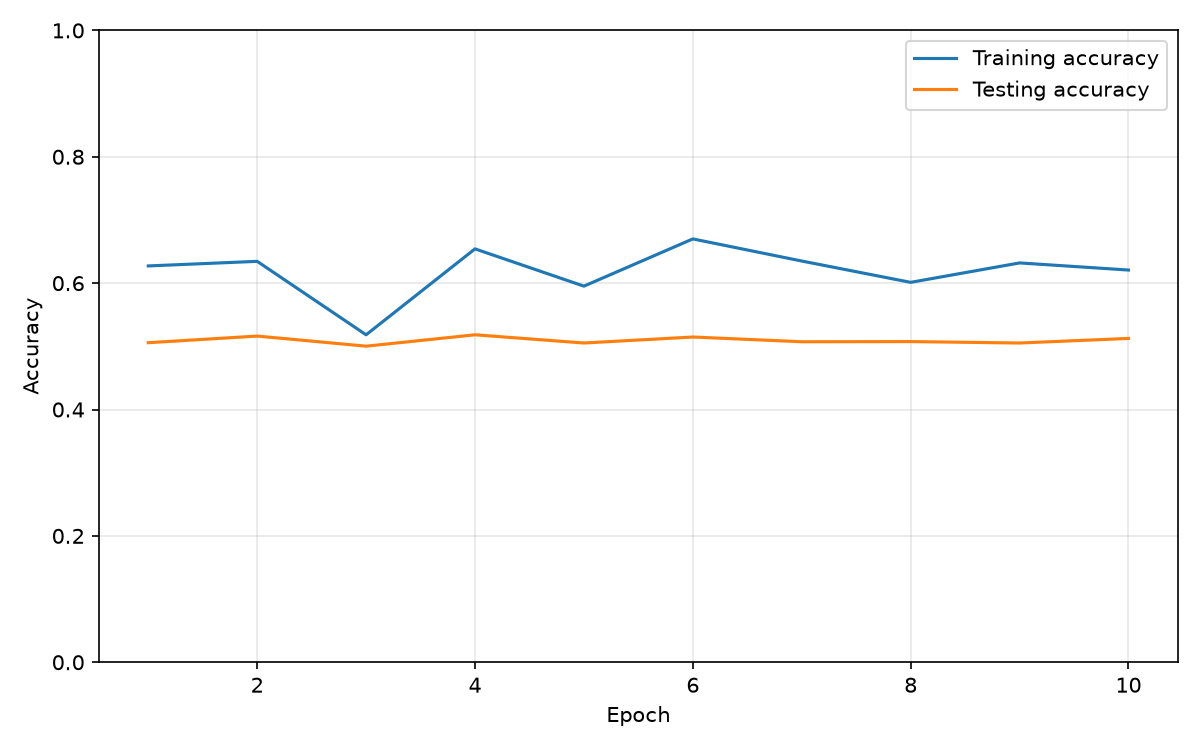
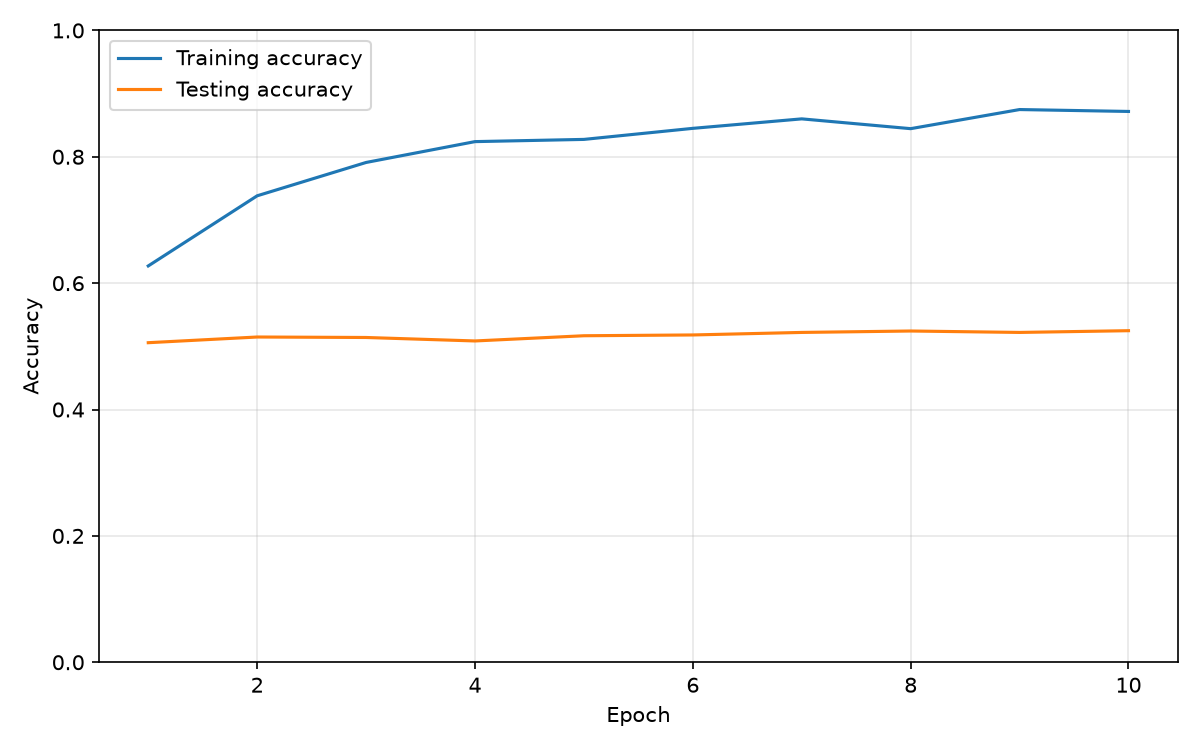
Update Tsetlin Machine experiment results

diff --git a/main.py b/main.py
@@ -157,7 +157,8 @@ def run_experiment(
     model = MultiClassTsetlinMachine(number_of_clauses=100, T=15, s=1.0, append_negated=True)
     history: list[dict[str, float | int]] = []
     for epoch in range(1, epochs + 1):
-        model.fit(train_pairs, train_targets, epochs=1)
+        # Continue training the same model rather than resetting it each epoch.
+        model.fit(train_pairs, train_targets, epochs=1, incremental=True)
         train_metrics = evaluate(model, train_pairs, train_targets)
         test_metrics = evaluate(model, test_pairs, test_targets)
         history.append(
